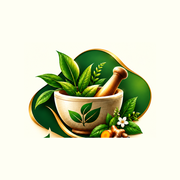
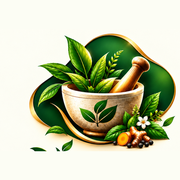
brand: phase 5.2 global official brand identity replacement
- New canonical masters derived pixel-exactly from the official uploaded
  artwork (crop + pad only; no redraw): brand/niramay-mark.png (square
  emblem) and brand/niramay-logo-full.png (full lockup incl. wordmark +
  'DISCOVER • HEAL • LIVE BETTER' tagline)
- NiramayLogo now ships two official variants: 'emblem' (all compact
  surfaces) and 'full' (footer brand column, framed as a cream brand card
  with gold hairline ring so it reads deliberately in light and dark)
- Regenerated favicon.ico (16/32/48/64), icon-192/512, apple-touch-icon
  from the official mark
- og-image.jpg rebuilt from the full official lockup on parchment
- Removed superseded public/brand/niramay-icon.png master; no stale refs
- QA: 12-viewport matrix PASS (320-1920), 6-page sweep zero broken
  images, dark/light footer verified (#0F2318 surface, aspect preserved),
  tsc + production build clean

diff --git a/components/brand/NiramayLogo.tsx b/components/brand/NiramayLogo.tsx
@@ -6,67 +6,49 @@ const BASE_PATH = process.env.NEXT_PUBLIC_BASE_PATH ?? "";
 interface NiramayLogoProps {
   size?: number;
   /**
-   * emblem — official emblem only (favicon-class surfaces, tiny controls).
-   * compact — emblem + "Niramay" wordmark.
-   * full — emblem + "Niramay" + Assamese wordmark নিৰাময়.
+   * emblem — square mark-only crop of the official artwork (mortar & pestle
+   *          with tulsi, turmeric and black pepper), for compact/icon-class
+   *          contexts (header, buttons, favicon-class surfaces, print/share
+   *          card headers). Never includes the wordmark or tagline — those
+   *          are illegible at these sizes.
+   * full    — the complete official lockup image (mark + "NIRAMAY" wordmark
+   *          + "DISCOVER • HEAL • LIVE BETTER" tagline, baked into a single
+   *          artwork file). Use only where there is genuine vertical room
+   *          for it to render legibly (e.g. the footer brand column).
    */
-  variant?: "emblem" | "compact" | "full";
-  /** Extra classes for the emblem image (ring/medallion tweaks). */
+  variant?: "emblem" | "full";
+  /** Extra classes for the emblem image (ring/medallion tweaks). Ignored for variant="full". */
   className?: string;
-  /** Classes for the Assamese wordmark span (e.g. responsive visibility). */
-  assameseClassName?: string;
-  /** Classes for the "Niramay" wordmark span (sizing/visibility control). */
-  wordmarkClassName?: string;
 }
 
 /**
  * Canonical Niramay brand component — the ONLY official brand source.
- * The emblem is derived directly from the uploaded brand artwork
- * (mortar & pestle with tulsi leaves), rendered as a gold-ringed
- * medallion that sits cleanly on parchment and night surfaces.
- *
- * Rule: wherever there is space for the brand name, use variant
- * "compact" or "full" — never show the bare emblem in normal
- * header/footer branding.
+ * Both variants are pixel derivatives of the single uploaded official
+ * artwork file — nothing here is hand-drawn or recreated with CSS/text.
  */
 export const NiramayLogo: React.FC<NiramayLogoProps> = ({
   size = 40,
   variant = "emblem",
   className = "",
-  assameseClassName = "",
-  wordmarkClassName = "",
 }) => {
-  const emblem = (
-    <img
-      src={`${BASE_PATH}/brand/niramay-icon.png`}
-      width={size}
-      height={size}
-      alt="Niramay emblem"
-      className={`shrink-0 rounded-full object-cover bg-cream ring-1 ring-amber-400/40 ${className}`}
-    />
-  );
-
-  if (variant === "emblem") return emblem;
+  if (variant === "full") {
+    return (
+      <img
+        src={`${BASE_PATH}/brand/niramay-logo-full.png`}
+        alt="Niramay — Discover • Heal • Live Better"
+        className={`w-auto object-contain rounded-xl ring-1 ring-amber-400/40 bg-cream ${className}`}
+        style={{ height: size }}
+      />
+    );
+  }
 
   return (
-    <span className="inline-flex items-center gap-2.5">
-      {emblem}
-      <span className="flex flex-col leading-none">
-        <span
-          className={`font-serif font-black tracking-tight text-ink ${
-            size >= 36 ? "text-xl" : "text-lg"
-          } ${wordmarkClassName}`}
-        >
-          Niramay
-        </span>
-        {variant === "full" && (
-          <span
-            className={`mt-0.5 text-[11px] font-semibold text-emerald-800 ${assameseClassName}`}
-          >
-            নিৰাময়
-          </span>
-        )}
-      </span>
-    </span>
+    <img
+      src={`${BASE_PATH}/brand/niramay-mark.png`}
+      width={size}
+      height={size}
+      alt="Niramay"
+      className={`shrink-0 rounded-full object-cover bg-cream ring-1 ring-amber-400/40 ${className}`}
+    />
   );
 };

diff --git a/components/layout/Footer.tsx b/components/layout/Footer.tsx
@@ -45,12 +45,14 @@ export const Footer: React.FC = () => {
         <div className="grid grid-cols-1 md:grid-cols-12 gap-10 md:gap-8">
           {/* Brand block */}
           <div className="md:col-span-5 space-y-5">
-            <NiramayLogo
-              size={44}
-              variant="full"
-              wordmarkClassName="text-2xl"
-              assameseClassName="text-xs"
-            />
+            <div className="space-y-1.5">
+              <NiramayLogo size={128} variant="full" />
+              <p className="text-xs font-semibold text-emerald-800">
+                {isAs
+                  ? "নিৰাময় — পৰম্পৰাগত পাকঘৰৰ চিকিৎসা"
+                  : "নিৰাময় — Traditional Kitchen Remedies"}
+              </p>
+            </div>
             <p className="text-xs sm:text-sm text-stone-600 leading-relaxed max-w-md">
               {isAs
                 ? "“ঘৰৰ মছলাত, স্বস্তি নিৰাময়” — অসমীয়া আৰু ভাৰতীয় পৰম্পৰাগত পাকঘৰৰ চিকিৎসা জ্ঞান, বয়স অনুযায়ী মাত্ৰা আৰু বিপদ সংকেতৰ সৈতে।"
